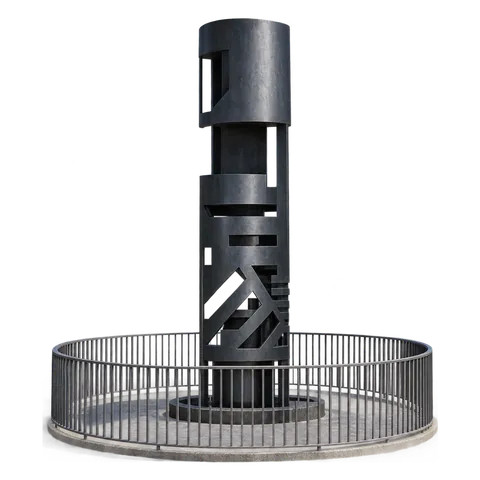
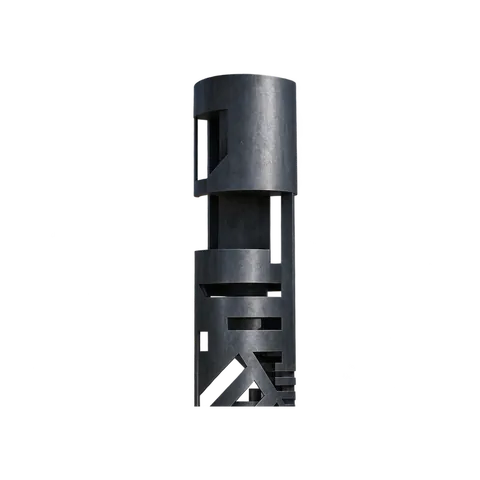
Memory: Salvatore a mezzo busto, Monumento senza il terzo inferiore; didascalie su una riga che si rimpiccioliscono se non entrano

Changed region(s): [[0.0625, 0.0312, 0.9375, 0.9688]]

diff --git a/app/src/games/memory/game.js b/app/src/games/memory/game.js
@@ -40,6 +40,20 @@ export function createMemory({ rng, config, hud, log, dom, isRunning }) {
   `);
   dom.append(element);
   const buttons = [...element.querySelectorAll('.memory-card')];
+
+  // Didascalie su una riga: se non entrano, si rimpicciolisce il carattere (fino a 9 px) (D72)
+  function fitCaptions() {
+    for (const caption of element.querySelectorAll('.memory-card__caption')) {
+      caption.style.fontSize = '';
+      let size = parseFloat(getComputedStyle(caption).fontSize);
+      while (caption.scrollWidth > caption.clientWidth && size > 9) {
+        size -= 0.5;
+        caption.style.fontSize = `${size}px`;
+      }
+    }
+  }
+  requestAnimationFrame(fitCaptions);
+  window.addEventListener('resize', fitCaptions);
   const found = element.querySelector('.memory-found');
 
   const schedule = (delayS, run) => scheduled.push({ at: now + delayS, run });
@@ -116,6 +130,10 @@ export function createMemory({ rng, config, hud, log, dom, isRunning }) {
   });
 
   return {
+    destroy() {
+      window.removeEventListener('resize', fitCaptions);
+    },
+
     update(dt, t) {
       now = t;
       const due = scheduled.filter((s) => s.at <= t);

diff --git a/app/src/styles/components.css b/app/src/styles/components.css
@@ -795,6 +795,8 @@ img.memory-card__image {
 .memory-card__caption {
   flex: none;
   padding: 0.1rem 0.15rem;
+  white-space: nowrap; /* una riga sola: se non entra, il gioco rimpicciolisce il carattere */
+  overflow: hidden;
   font-size: 0.8rem;
   font-weight: 700;
   line-height: 1.15;

diff --git a/docs/05-DECISIONI.md b/docs/05-DECISIONI.md
@@ -76,6 +76,7 @@ Questo file **ha la precedenza** sugli altri documenti. Aggiornarlo a ogni nuova
 | D69 | **Niente selfie**, per privacy e GDPR: la Tappa 9 è cancellata (supera D12, D28; Q6 chiusa). Al ritiro del premio basta il QR personale / il login davanti allo staff. | |
 | D70 | **Ordine delle tappe rimanenti**: Tappa 6 (classifica) → Tappa 8 (pannello staff) → Tappa 10 (contenuti veri e prova generale). La **Tappa 7 (oggetti segreti) è rimandata**: finché non si fa, il totale in classifica è solo la somma dei 4 giochi (max 4.000). | |
 | D71 | **Classifica senza normalizzazione** (supera la formula "record = 1000" di 01-SPECIFICHE §6.5 e 02-ARCHITETTURA §3.5): totale = **somma dei migliori punteggi nei 4 giochi + punti extra** assegnati al giocatore (tabella `extra_points`). Riassunto per giocatore in una tabella aggiornata dal database solo quando cambia un suo punteggio, così aprire la classifica non ricalcola nulla. **Pari punti = stessa posizione** (es. due terzi, poi il quinto), ordine indifferente tra loro. Si vedono i **primi 20** (più i pari merito del 20°) e **la propria riga, sempre evidenziata** (a parte se oltre il 20°); **primi 10 distinti** (zona premi, righe gialle, senza scritta di separazione); **podio** per i primi 3 (personaggio al centro, nickname piccolo sotto; i pari merito sullo stesso gradino). **Live**: si aggiorna da sola ogni 5 s mentre è aperta (se non cambia nulla il server risponde solo "invariata"), senza scritte "aggiornata alle"; solo "📡 Senza connessione" se manca la rete. Dopo la chiusura: **"Classifica finale"**. Bottone **🏆 Classifica** in alto nella pagina Minigiochi, apre la pagina `#/giochi/classifica`. Toccando un giocatore si vede la sua scheda (la stessa del profilo: punti, posizione, migliori per gioco, punti extra). Staff e account disattivati esclusi. | Se ci sono pari merito al 10° posto, sono tutti in zona premi. |
+| D72 | **Immagini del Memory**: gli originali restano in `contenuti/memory/` come riferimento; `npm run memory-images` crea le copie per il sito in `app/src/games/memory/photos/` (sfondo tolto se non trasparente, ritaglio stretto, quadrato, WebP 480 px, ~10–50 KB). Ritagli per singola immagine nello script: Salvatore a mezzo busto, Monumento senza il terzo inferiore. **Didascalie su una riga**: se non entrano il carattere si rimpicciolisce da solo (minimo 9 px); meglio restare entro ~10–12 lettere. | |
 | D35 | Il repository e il sito appartengono all'**organizzazione GitHub `OratorioTorchiati`** (gratuita), così l'indirizzo non mostra l'account personale: **https://oratoriotorchiati.github.io/sagra-porcino/**. | La radice `oratoriotorchiati.github.io` resta libera per futuri progetti dell'oratorio. |
 
 ## Questioni aperte
